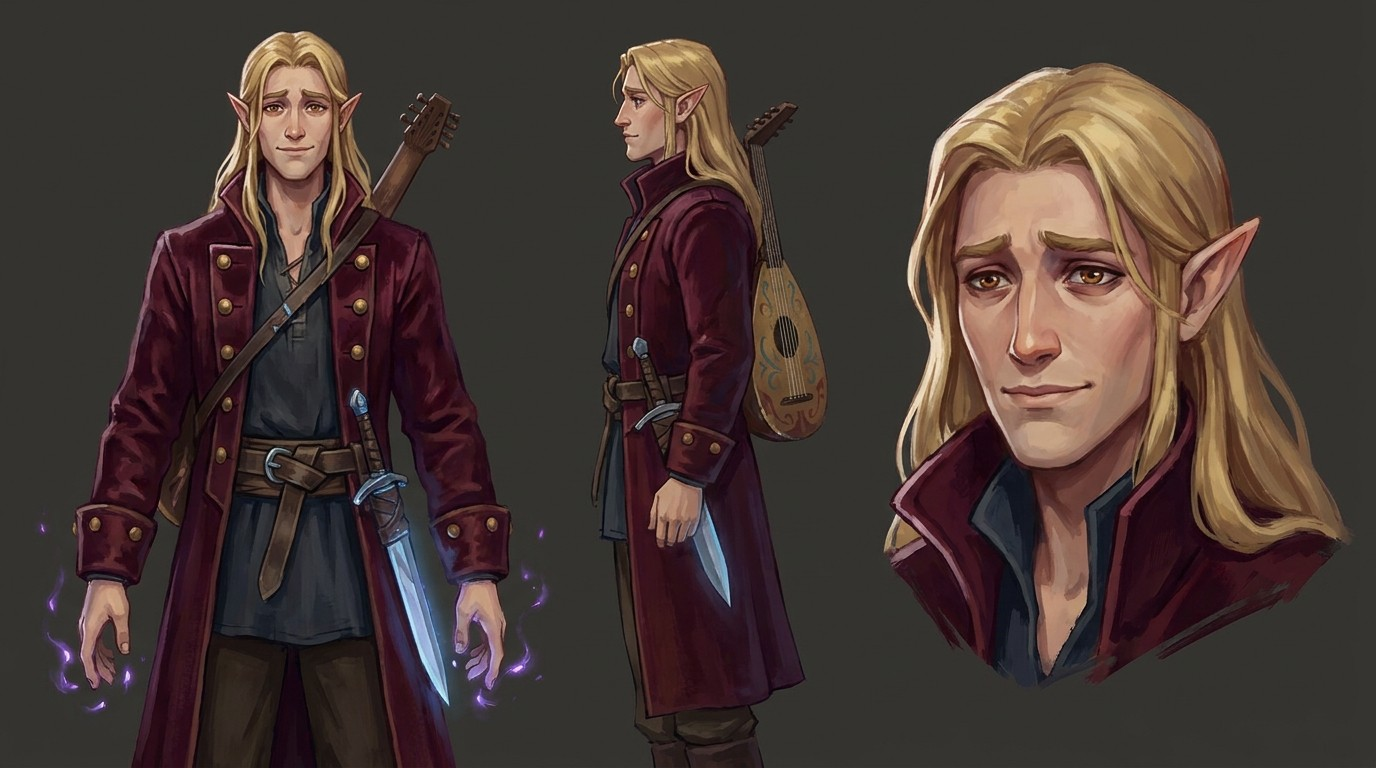
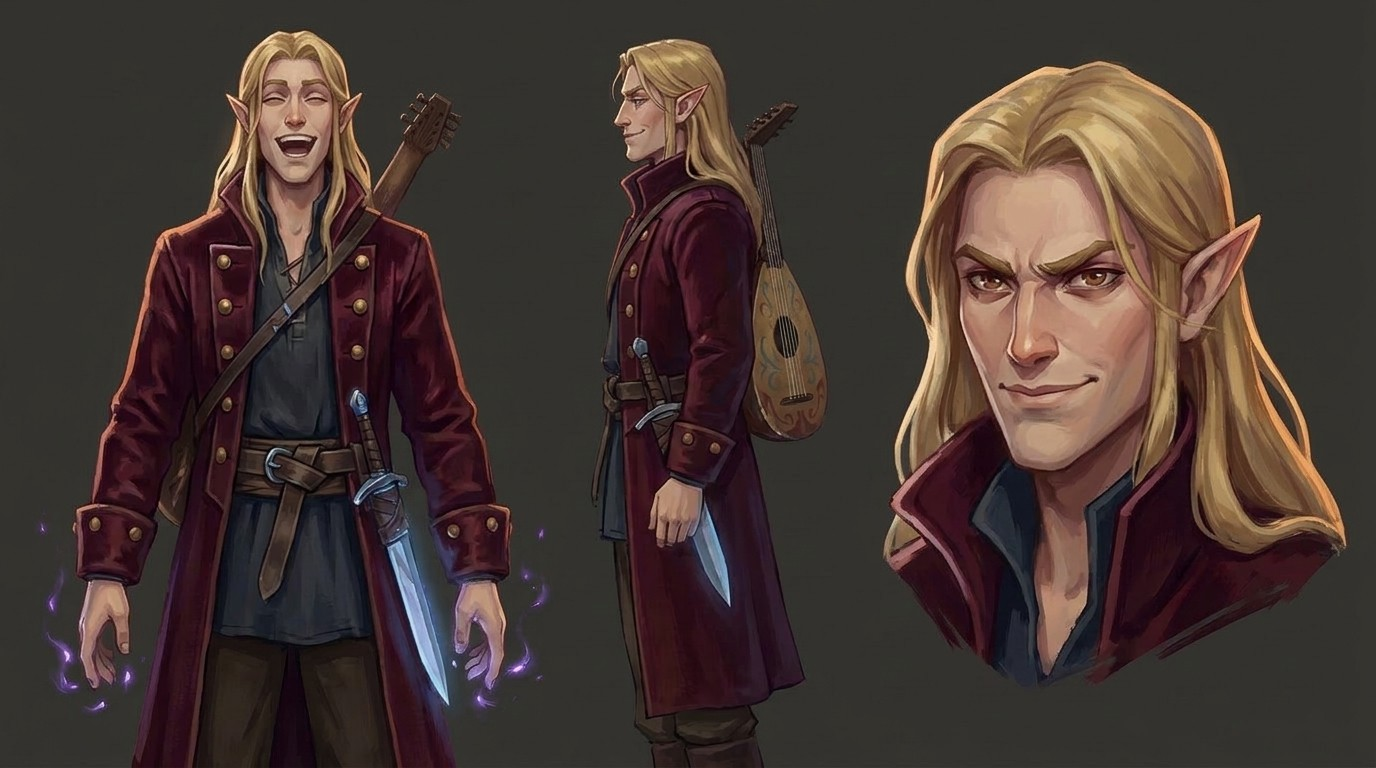
Chronicle: wake lock + media session while a song plays; older levels get the lively Lucien sheet, Lucien-shot repaint batches submitted (1, 6, 8)
Claude-Session: https://claude.ai/code/session_01ATYH57jnXnDsQfoAHnRMyx

diff --git a/chronicle/src/ui.js b/chronicle/src/ui.js
@@ -93,6 +93,27 @@ function pickSong(s) {  // fallback when the file is missing: let the player cho
   $('hint').appendChild(l);
 }
 audio.addEventListener('ended', () => { if (mode === 'ride') finish(); });
+/* ---------- keep the phone awake while a song plays, and tell the OS what is playing ---------- */
+let wake = null;
+function wakeOn() {
+  if (wake || !navigator.wakeLock || document.visibilityState !== 'visible') return;
+  navigator.wakeLock.request('screen').then((w) => { wake = w; w.addEventListener('release', () => { wake = null; }); }).catch(() => { });
+}
+function wakeOff() { if (wake) { wake.release().catch(() => { }); wake = null; } }
+audio.addEventListener('play', () => {
+  wakeOn();
+  if ('mediaSession' in navigator && story) {
+    try {
+      navigator.mediaSession.metadata = new MediaMetadata({ title: story.title, artist: 'Lucien Vale', album: 'Alaron Chronicle',
+        artwork: story.painted ? [{ src: new URL(story.paintBase + (story.painted.cover || story.painted.shots[0].id) + '.webp', BASE).href, sizes: '1600x900', type: 'image/webp' }] : [] });
+      navigator.mediaSession.setActionHandler('play', () => { if (paused) togglePause(); });
+      navigator.mediaSession.setActionHandler('pause', () => { if (!paused) togglePause(); });
+    } catch (e) { }
+  }
+});
+['pause', 'ended'].forEach((n) => audio.addEventListener(n, wakeOff));
+// the lock drops when the tab is hidden; take it again on return if the song is still going
+document.addEventListener('visibilitychange', () => { if (document.visibilityState === 'visible' && !audio.paused) wakeOn(); });
 
 /* ---------- start ---------- */
 $('go').disabled = false; $('go').textContent = 'Step into the tavern';
